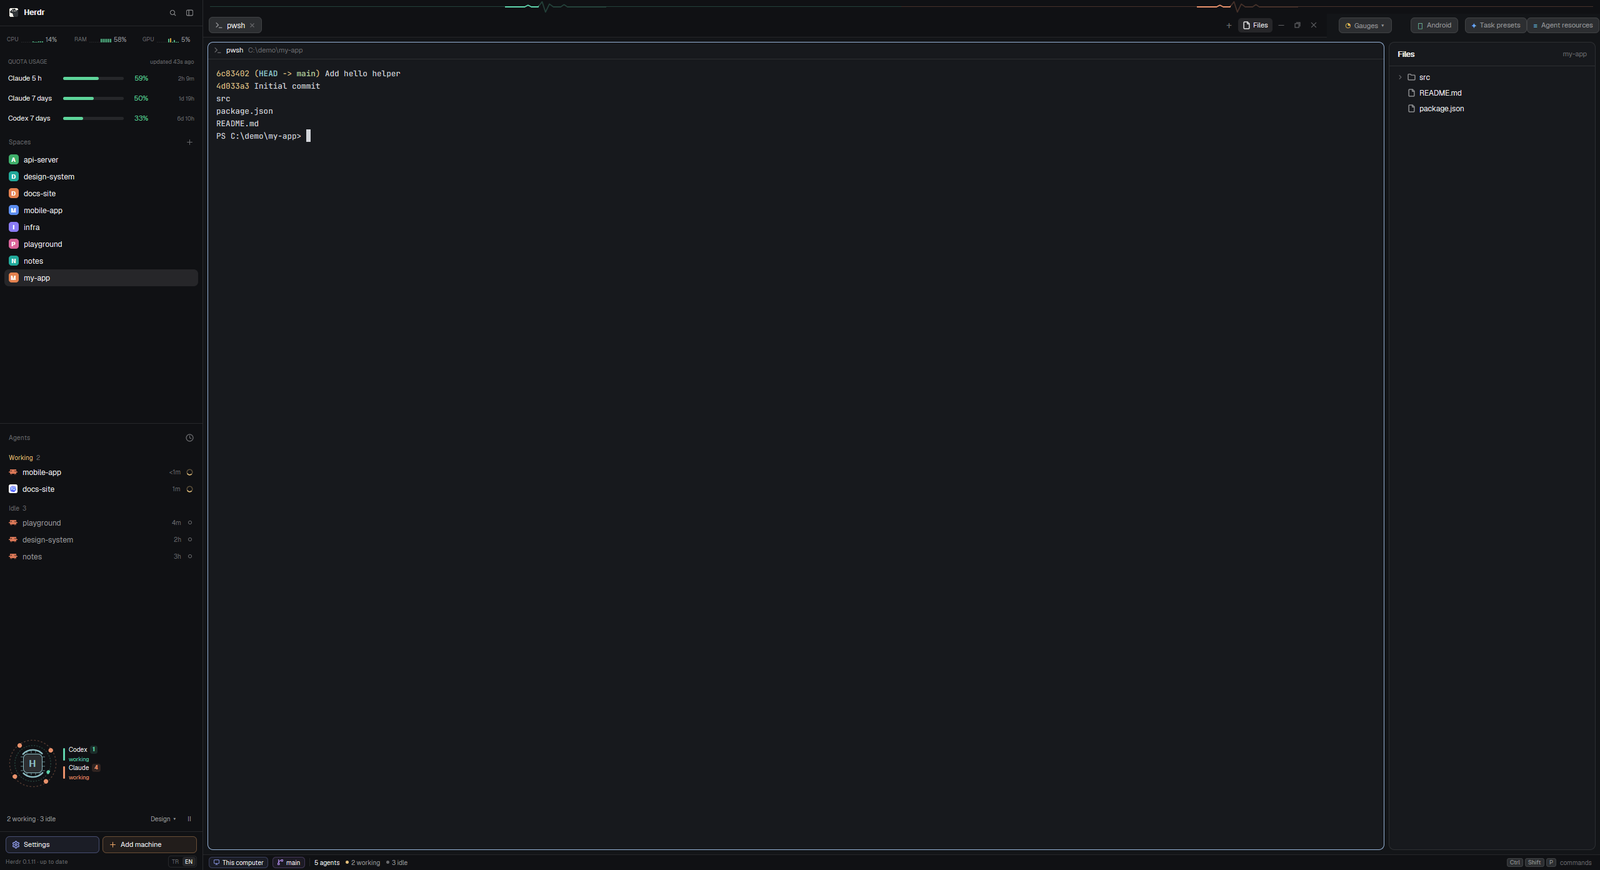
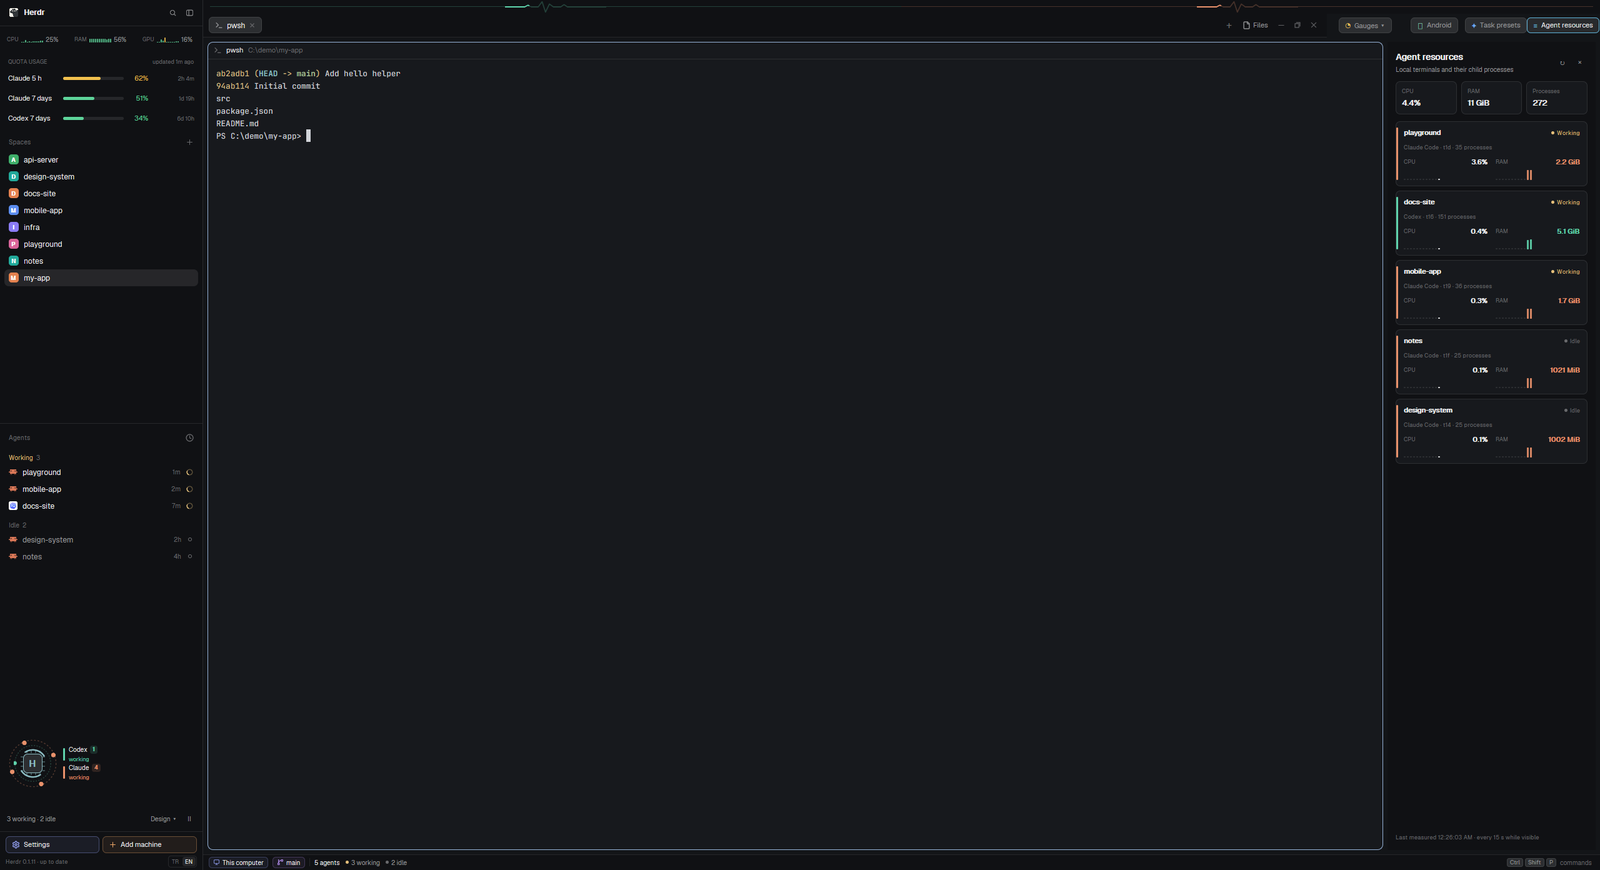
README gallery: task presets (single and team), sidebar, agent resources, Android, gauges; new preview

diff --git a/README.md b/README.md
@@ -6,6 +6,18 @@ A [Herdr](https://herdr.dev) layout for running several coding agents side by si
 
 Source: [github.com/chelebyy/herdr-agent-workspace](https://github.com/chelebyy/herdr-agent-workspace) (repo topic `herdr-layout`, listed at [herdr.dev/layouts](https://herdr.dev/layouts)).
 
+## Screenshots
+
+All screenshots use demo project names; the interface is shown in English (Turkish is the default). The instructions sent to agents and the default team role names stay Turkish by design.
+
+| Task presets: one agent | Task presets: team mode |
+| --- | --- |
+| ![Task presets with a single agent](screenshots/task-presets.png) | ![Task presets in coordinated team mode](screenshots/team-mode.png) |
+
+| Sidebar | Agent resources | Android | Gauges position |
+| --- | --- | --- | --- |
+| ![Sidebar with gauges, quota, spaces, agents and team pulse](screenshots/sidebar.png) | ![Agent resources panel](screenshots/agent-resources.png) | ![Android devices and emulators](screenshots/android.png) | ![Gauges position menu](screenshots/gauges.png) |
+
 ## Features
 
 - **Sidebar (360px):** CPU / RAM / GPU gauges, Claude and Codex quota bars with reset timers and pace markers, Spaces with git branch and ahead/behind, Agents list, team pulse panel, footer with Settings, Add machine and the language switch. Gauges can move to the bottom status bar.
@@ -32,7 +44,7 @@ Manual install:
 2. Copy every folder in `mods/` to `~/.config/herdr-app/mods/`. Do not overwrite a mod with the same name; rename it (the file or folder, the `mod` names in the layout and the mod's own `mods/<name>/` paths) if one is taken.
 3. Run `herdr-app check` for each mod, then switch with the `layout.switch` command (name `agent-workspace`).
 
-`RECIPE.md` and `preview.png` are not copied; `RECIPE.md` is the brief to rebuild the layout from scratch.
+`RECIPE.md`, `preview.png` and `screenshots/` are not copied; `RECIPE.md` is the brief to rebuild the layout from scratch.
 
 ## Requirements
 
